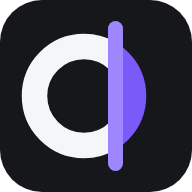
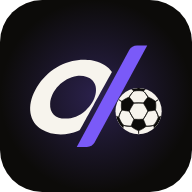
New mark: the owner's O, offside line and ball, traced and made to work small
The owner's drawing, traced: the italic O and the line are the drawing's own
outlines (potrace for the O; the line fitted to its edges, keeping the gap
beside the O and its two rounded corners). The ball is rebuilt as a true
football pattern, panels where the drawing has them, so its seams are clean.

Fixed along the way:
- flat everywhere it is small; the glow is kept for the link preview only
- a one-panel ball below 48 px, so the tab icon is not a grey smudge
- the site's own colours (chalk, floodlight violet, the warm ground)
- square files: a 120 px logo for Google's branding, home-screen and
  maskable icons, full-bleed where the system cuts its own shape

Replaces icon.svg, every icon PNG, the footer mark and og.png; adds
public/brand/ with the mark, the Google logo and a note on each file.

Claude-Session: https://claude.ai/code/session_016XH65b4dFvAi5taHKyqZUK

diff --git a/public/index.html b/public/index.html
@@ -61,9 +61,9 @@
   <div class="top-inner">
     <!--
       The wordmark: the offside line drawn through the name, between "off" and
-      "side". The same line runs through the ball in the mark, which lives on
-      the favicon, the home-screen icon and the footer, where there is room
-      for a symbol and no need for the name twice.
+      "side". The mark carries the same line, between an italic O and the
+      ball beyond it; it lives on the favicon, the home-screen icon and the
+      footer, where there is room for a symbol and no need for the name twice.
     -->
     <a class="brand" href="#/home" aria-label="offside.win, home">
       <span class="wordmark" aria-hidden="true">off<i class="wm-line"></i>side<span class="wm-tld">.win</span></span>
@@ -172,13 +172,7 @@
       </div>
     </div>
     <div class="foot-brand">
-      <svg class="brand-symbol" viewBox="0 0 64 64" aria-hidden="true">
-        <clipPath id="mark-l"><rect width="40" height="64"/></clipPath>
-        <clipPath id="mark-r"><rect x="40" width="30" height="64"/></clipPath>
-        <circle cx="29" cy="32" r="18.5" fill="none" style="stroke:var(--chalk)" stroke-width="7" clip-path="url(#mark-l)"/>
-        <circle cx="29" cy="32" r="18.5" fill="none" style="stroke:var(--floodlight)" stroke-width="7" clip-path="url(#mark-r)"/>
-        <rect x="38.25" y="4" width="3.5" height="56" rx="1.75" style="fill:var(--floodlight-hi)"/>
-      </svg>
+      <svg class="brand-symbol" viewBox="480 288 578 462" aria-hidden="true"><clipPath id="footc"><circle cx="946" cy="582" r="96"/></clipPath> <path d="M 699 368.969 C 622.149 376.503, 554.702 422.767, 516.720 494 C 480.503 561.921, 490.986 625.681, 543.799 658.704 C 582.904 683.156, 643.733 685.647, 693.718 664.844 C 700.296 662.106, 701.188 661.381, 703.774 656.670 C 705.335 653.826, 715.862 634.850, 727.168 614.500 C 738.475 594.150, 752.685 568.500, 758.748 557.500 C 772.399 532.732, 802.995 477.400, 815.977 454 C 821.317 444.375, 827.830 432.542, 830.449 427.704 L 835.212 418.908 829.308 411.704 C 812.558 391.265, 784.245 376.389, 751 370.558 C 739.966 368.623, 711.424 367.751, 699 368.969 M 689.303 435.990 C 632.321 444.052, 581.689 496.517, 578.412 550.896 C 576.120 588.928, 600.593 613, 641.549 613 C 672.131 613, 699.727 601.820, 726.044 578.770 C 769.671 540.559, 782.539 482.354, 753.729 453.544 C 739.739 439.554, 713.892 432.512, 689.303 435.990 " style="fill:var(--chalk)" fill-rule="evenodd"/> <path d="M 939.7 309.0 L 981.9 309.0 L 763.6 711.7 Q 753.1 731.0 731.1 731.0 L 688.9 731.0 L 907.2 328.3 Q 917.7 309.0 939.7 309.0 Z" style="fill:var(--floodlight)"/> <circle cx="946" cy="582" r="96" style="fill:var(--chalk)"/><polygon points="946.0,551.4 978.9,575.3 966.3,614.0 925.7,614.0 913.1,575.3" style="fill:var(--stand)"/></svg>
       <span class="wordmark" aria-label="offside.win">off<i class="wm-line"></i>side<span class="wm-tld">.win</span></span>
     </div>
     <div class="foot-stats" id="foot-stats"></div>

diff --git a/public/base.css b/public/base.css
@@ -380,7 +380,7 @@ h3.display { font-size: var(--text-lg); letter-spacing: var(--tracking-md); line
 .brand:hover .wm-line { background: var(--floodlight); }
 
 /* The mark, where there is room for a symbol: the footer, the icons. */
-.brand-symbol { width: 40px; height: 40px; flex: none; color: var(--chalk); }
+.brand-symbol { width: auto; height: 36px; aspect-ratio: 578 / 462; flex: none; color: var(--chalk); }
 
 /*
  * A pill rail, with the current route as a filled pill.

diff --git a/public/brand/README.md b/public/brand/README.md
@@ -1,0 +1,19 @@
+# The mark
+
+An italic O, the offside line, and the ball beyond it. Drawn by the owner;
+traced from that drawing (the O and the line), with the ball rebuilt as a
+true football pattern so its seams are clean at every size.
+
+| File | Use |
+|---|---|
+| `mark.svg` | the mark on its own, full detail |
+| `logo-120.png` | Google's sign-in branding (square, 120 px) |
+| `logo-1024.png` | anywhere that wants a large square logo |
+| `../icon.svg`, `../icon-32.png` | browser tab; the ball keeps one panel so it holds at 16–32 px |
+| `../icon-192.png`, `../icon-512.png` | home-screen icon (rounded tile) |
+| `../apple-touch-icon.png`, `../icon-512-maskable.png` | full-bleed, for systems that cut their own shape |
+| `../og.png` | the link preview |
+
+Colours are the site's own: chalk `#f7f4ed`, floodlight violet `#7a5af8`,
+ground `#0c0b09`. The glow belongs to large uses only (the link preview);
+every icon is flat.
